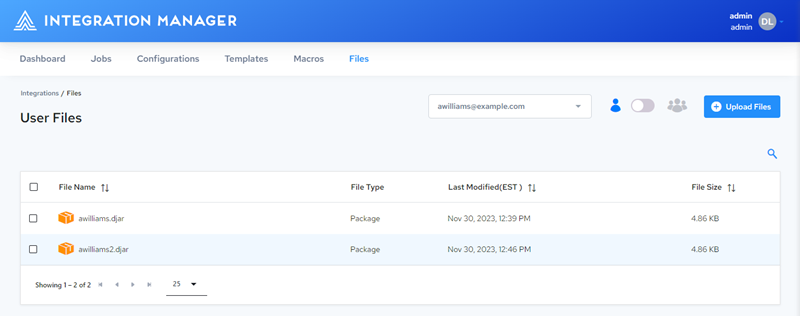
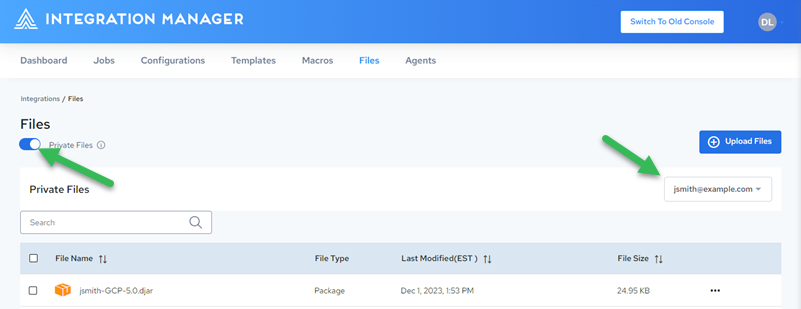
Updates for 3.2

diff --git a/docs/integration-manager/files/managing-files.md b/docs/integration-manager/files/managing-files.md
@@ -8,29 +8,27 @@ You can upload and manage files for use with your configurations and templates. 
 * Private Files can be created, edited, or deleted by the logged–in user. These files are visible to administrators.
 * Public Files can be seen and accessed by any user. They can be created, edited, or deleted only by an administrator.
 
-## Viewing Private Files
-
-1. Select the **Files** tab.
-2. The **Private Files** page is displayed, listing files owned by you:
-
-   ![Private Files](/img/Private-Files.png)&nbsp;
-
 ## Viewing Public Files
 
 1. Select the **Files** tab.
-2. Use the toggle control to select **Public Files**.
-3. The **Public Files** page is displayed, listing files viewable by all users:
+3. The **Public Files** list is displayed, listing files viewable by all users:
 
-   ![Public Files](/img/Public-Files.png)&nbsp;:
+   ![Public Files](/img/Public-Files.png)
+
+## Viewing Private Files
+
+1. Select the **Files** tab.
+2. Use the toggle control to select **Private Files**.
+3. The **Private Files** list is displayed, listing files owned by you:
+
+   ![Private Files](/img/Private-Files.png)&nbsp;
 
 ## Viewing User Files (Admins only)
 
 1. Select the **Files** tab.
-2. Select a user from the user dropdown:
-
-   ![User Files](/img/User-Files-Dropdown.png)&nbsp;
-
-3. The **User Files** page is displayed, listing files owned by the selected user:
+2. Use the toggle control to select **Private Files**.
+3. Select a user from the user dropdown.
+4. The **Private Files** list is displayed, listing files owned by the selected user:
 
    ![User Files](/img/User-Files.png)&nbsp;
 
@@ -40,7 +38,8 @@ You can upload and manage files for use with your configurations and templates. 
 Only Admins can upload public files.
 :::
 
-1. Display the **Private Files**, **Public Files**, or **User Files** page as described above.
+1. Select the **Files** tab.
+2. Display the **Private Files** or **Public Files** list as described above.
 2. Click <img src="/img/icons/Upload-Files-Button.png" className="icon" alt="the Upload Files button"/>.
 3. In the **File Manager** dialog, drop one or more files or click **BROWSE FILES** and select one or more files.
 4. The files are added to the **File Manager** dialog. You can click <img src="/img/icons/unlink.png" className="icon" alt="the Unlink iconn"/> to remove any files.
@@ -48,15 +47,15 @@ Only Admins can upload public files.
    ![Uploading User Files](/img/Uploading-User-Files.png)
 5. Click the **DONE** button.
    
-   * **For non-admin users**, the files are added to the **Private Files** page:
+   * **For non-admin users**, the files are added to the **Private Files** list:
 
          ![Uploaded User Files](/img/Private-Files-Added.png)
-   * **For admins adding user files**, the files are added to the **User Files** page:
+   * **For admins adding user files**, the files are added to the **User Files** list:
 
          ![Uploaded User Files](/img/Uploaded-User-Files.png)
-   * **For admins adding public files**, the files are added to the **Public Files** page:
+   * **For admins adding public files**, the files are added to the **Public Files** list:
 
-         ![Uploaded Public Files](/img/Public-Files.png)&nbsp;:
+         ![Uploaded Public Files](/img/Public-Files.png)
 
 ## Deleting Files
 
@@ -65,16 +64,25 @@ Only Admins can delete public files or user files owned by another user.
 :::
 
 1. Select the **Files** tab.
-   
 2. Use the toggle control to select **User Files** or **Public Files**.
-3. Select the file(s) you wish to delete and click **Delete File**:
+3. Do one of the following:
+   * To delete a single file, click the ellipsis button next to the desired file and select **Delete**:
 
-   ![Delete Files](/img/Delete-Files.png)
+     ![](/img/Delete-Single-File.png)
+   * To delete multiple files, select the checkbox next to the desired files and click <img src="/img/icons/trash.png" className="icon" alt="the Delete icon"/>:
+
+     ![](/img/Delete-Multiple-Files.png)
 
 ## Downloading Files
 
-1. Click the filename:
+1. Select the **Files** tab.
+2. Use the toggle control to display Public or Private files:
+   
+   ![](/img/Toggle-File-Type.png)
+3. Do one of the following:
+   * To download a single file, click the ellipsis button next to the desired file and select **Download**:
 
-   ![Download Files](/img/Download-File.png)
+     ![](/img/Download-File.png)
+   * To download multiple files, select the checkbox next to the desired files and click <img src="/img/icons/download.png" className="icon" alt="the Download icon"/>:
 
-2. In the **Save As** window, navigate to the desired folder and click **Save**.
+     ![](/img/Download-Files.png)

diff --git a/docs/integration-manager/macros/creating-macros.md b/docs/integration-manager/macros/creating-macros.md
@@ -13,28 +13,38 @@ This topic describes the process of manually creating a macro. For details on im
 To create a User (Private) Macro:
 
 1. Select the **Macros** tab.
+2. Use the toggle control to select **Private Macros**:
    
-2. The **Private Macros** page is displayed.
+   ![](/img/Private-Macros-Toggle.png)
+
+3. The **Private Macros** list is displayed.
 
    **Non-Admin Users:**
    * Click <img src="/img/icons/Add-Macro-Button.png" className="icon" alt="the Add Macro button"/>:
  
-       ![Toggle Private](/img/Private-Macros.png)
+       ![](/img/Private-Macros.png)
 
    **Admin Users:**
    * Select the user for whom you want to create the macro, then click <img src="/img/icons/Add-Macro-Button.png" className="icon" alt="the Add Macro button"/>:
 
-       ![Toggle Private](/img/Private-Macros-Admin.png)
-3. If creating your first private macro, continue [Creating Your First Macro](./creating-macros#creating-your-first-macro). Otherwise, continue [Creating Additional Macros](./creating-macros#creating-additional-macros).
+       ![](/img/Private-Macros-Admin.png)
+4. If creating your first private macro, continue [Creating Your First Macro](./creating-macros#creating-your-first-macro). Otherwise, continue [Creating Additional Macros](./creating-macros#creating-additional-macros).
 
 ## Creating Public Macros
+
+:::note
+Only Admin users can create Public macros.
+:::
 
 To create a Public Macro:
 
 1. Select the **Macros** tab.
-2. On the **Macros** page, display the **Public Macros** page using the toggle control:
 
-    ![Toggle Public](/img/Macros-Public-Toggle.png)
+   The **Public Macros** list is displayed:
+
+    ![](/img/Public-Macros.png)
+2. Click <img src="/img/icons/Add-Macro-Button.png" className="icon" alt="the Add Macro button"/>:
+
 3. If creating your first public macro, continue [Creating Your First Macro](./creating-macros#creating-your-first-macro). Otherwise, continue [Creating Additional Macros](./creating-macros#creating-additional-macros).
 
 ## Creating Your First Macro
@@ -45,11 +55,11 @@ import PartialContent1 from '../../reuse/_add_macro.mdx';
 
 1.   You are returned to the **Macros** page, which lists the new macro:
 
-     ![Macros-Public-List](/img/Macros-Public-List-First.png)
+     ![](/img/Macros-Public-List-First.png)
 
 2.   Click the empty space in the **Description** column, enter a descriptive name, and press Enter:
    
-     ![Add Macro Description](/img/Add-Macro-Description-First.png)
+     ![](/img/Add-Macro-Description-First.png)
 
 ## Creating Additional Macros
 
@@ -57,13 +67,13 @@ Once you have created your first macro, you can add additional rows to the Macro
 
 4. When you click <img src="/img/icons/Add-Macro-Button.png" className="icon" alt="the Add Macro button"/>, a row is added to the Macros list with the default name “Macro #”:
 
-    ![Add Another Macro](/img/Add-Another-Macro.png)
+    ![](/img/Add-Another-Macro.png)
 
 5. Edit the name as desired and press Enter.
 6. Click the empty space in the **Value** column, enter the macro value, and press Enter.
 
-    ![Edit Value](/img/Add-Macro-Value.png)
+    ![](/img/Add-Macro-Value.png)
 
 7. Click the empty space in the **Description** column, enter a description, and press Enter.
 
-    ![Edit Description](/img/Add-Macro-Description.png)
+    ![](/img/Add-Macro-Description.png)

diff --git a/docs/integration-manager/configurations/managing-configuration-files.md b/docs/integration-manager/configurations/managing-configuration-files.md
@@ -100,17 +100,21 @@ To select a different package:
 
 ## Downloading Configuration Files
 
-1. Select the **Files** tab.
-2. Use the toggle control to display Public or Private files:
+1. Select the **Configurations** tab.
+2. Click the name of the configuration for which you want to download files:
+
+   ![Select Configuration](/img/Configuration-Select2.png)
+
+3. On the **Configuration Details** page, click **Files** in the left pane:
    
-   ![](/img/Toggle-File-Type.png)
-3. Do one of the following:
+   ![Configuration Files Link](/img/Configuration-Files-Link.png)
+4. Do one of the following:
    * To download a single file, click the ellipsis button next to the desired file and select **Download**:
 
-     ![](/img/Download-File.png)
+     ![](/img/Download-Single-Config-File.png)
    * To download multiple files, select the checkbox next to the desired files and click <img src="/img/icons/download.png" className="icon" alt="the Download icon"/>:
 
-     ![](/img/Download-Files.png)
+     ![](/img/Download-Multiple-Config-Files.png)
 
 ## Deleting Configuration Files and File Links
 
@@ -119,7 +123,18 @@ To select a different package:
 * Deleting a file link only removes the link between the configuration and the file. It does not delete the file from the File Repository.
 :::
 
-1. On the **Configuration Files** page, select the checkbox next to the file(s) you want to delete and click <img src="/img/icons/trash.png" className="icon" alt="the trash can icon"/>:
+1. Select the **Configurations** tab.
+2. Click the name of the configuration for which you want to delete files:
 
-   ![](/img/Delete-Configuration-Files.png)
+   ![Select Configuration](/img/Configuration-Select2.png)
 
+3. On the **Configuration Details** page, click **Files** in the left pane:
+   
+   ![Configuration Files Link](/img/Configuration-Files-Link.png)
+4. Do one of the following:
+   * To delete a single file, click the ellipsis button next to the desired file and select **Delete**:
+
+     ![](/img/Delete-Single-Config-File.png)
+   * To delete multiple files, select the checkbox next to the desired files and click <img src="/img/icons/trash.png" className="icon" alt="the Delete icon"/>:
+
+     ![](/img/Delete-Multiple-Config-Files.png)

diff --git a/docs/integration-manager/macros/using-LOCAL_JOB_SPEC_DIR.md b/docs/integration-manager/macros/using-LOCAL_JOB_SPEC_DIR.md
@@ -4,18 +4,17 @@ title: Using LOCAL_JOB_SPEC_DIR
 
 # Using the LOCAL_JOB_SPEC_DIR Macro
 
-The macro LOCAL_JOB_SPEC_DIR is automatically configured for your jobs running on Integration Manager. It will be automatically populated with the location of where additional files are downloaded to when your job runs.
+The macro LOCAL_JOB_SPEC_DIR is automatically configured for your jobs running in Integration Manager. It will be automatically populated with the location to which additional files are downloaded when your job runs.
 
 ## Design Time
 
- To make use of the macro, during DataConnect design time you can reference the macro as shown below:
+ To make use of the macro, you can reference the macro during DataConnect design time as shown below:
  
 ![](/img/LOCAL_JOB_SPEC_DIR-1.png)
 
 ## Integration Manager
 
-You do not need to configure this macro. You just need to upload the file to Integration Manger. When you run the Job Config, the uploaded file will be used for your map. An example is shown below:
-
+You do not need to configure this macro. You just need to upload the file to Integration Manager. When you run the Job Config, the uploaded file will be used for your map. An example is shown below:
 
 ![](/img/LOCAL_JOB_SPEC_DIR-2.png)
 

diff --git a/docs/integration-manager/macros/editing-macros.md b/docs/integration-manager/macros/editing-macros.md
@@ -4,18 +4,13 @@ title: Editing Macros
 # Editing Macros
 
 :::note
-
 Only Admin users can edit Public macros.
-
 :::
 
 To change the name, value, or description of an existing macro:
 
 1. Select the **Macros** tab.
-2. On the **Macros** page, select either Private or Public macros using the toggle control:
-
-    ![Private Public Toggle](/img/icons/Private-Public-Toggle.png)
-
+2. The **Private Macros** list is displayed.
 3. Click the **Name**, **Value**, or **Description**, edit the value, and press Enter:
  
     ![Edit-Macro](/img/Edit-Macro.png)
